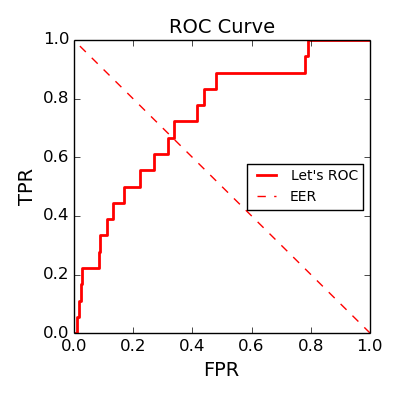
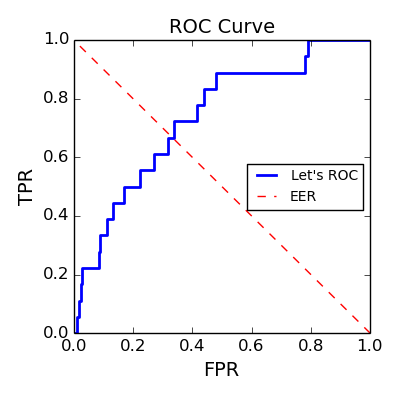
changed color of curve

diff --git a/Exercise3/line_spotting.py b/Exercise3/line_spotting.py
@@ -371,7 +371,7 @@ def printROCCurve(tpr, fpr, name):
     plt.ylabel("TPR", fontsize=14)
     plt.title("ROC Curve", fontsize=14)
     
-    plt.plot(fpr,tpr, color="red", linewidth=2, label="Let's ROC")
+    plt.plot(fpr,tpr, color="blue", linewidth=2, label="Let's ROC")
     plt.plot([1,0],[0,1], "r--", label="EER")
         
     plt.xlim(0.0,1.0)
